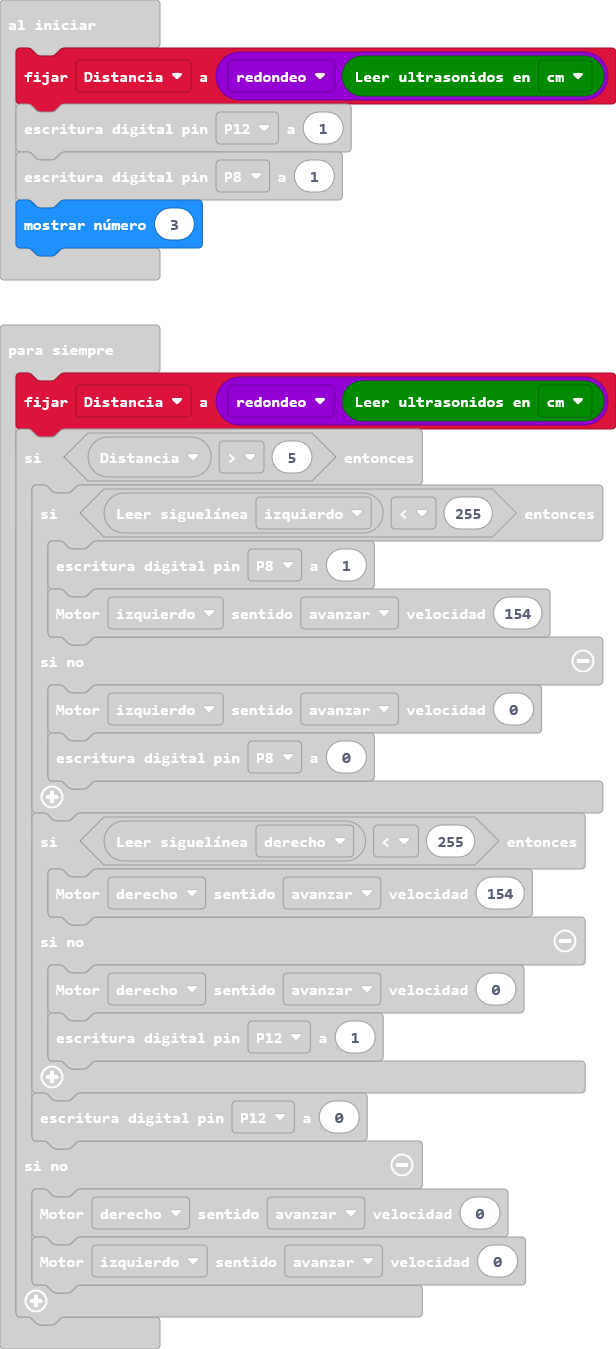
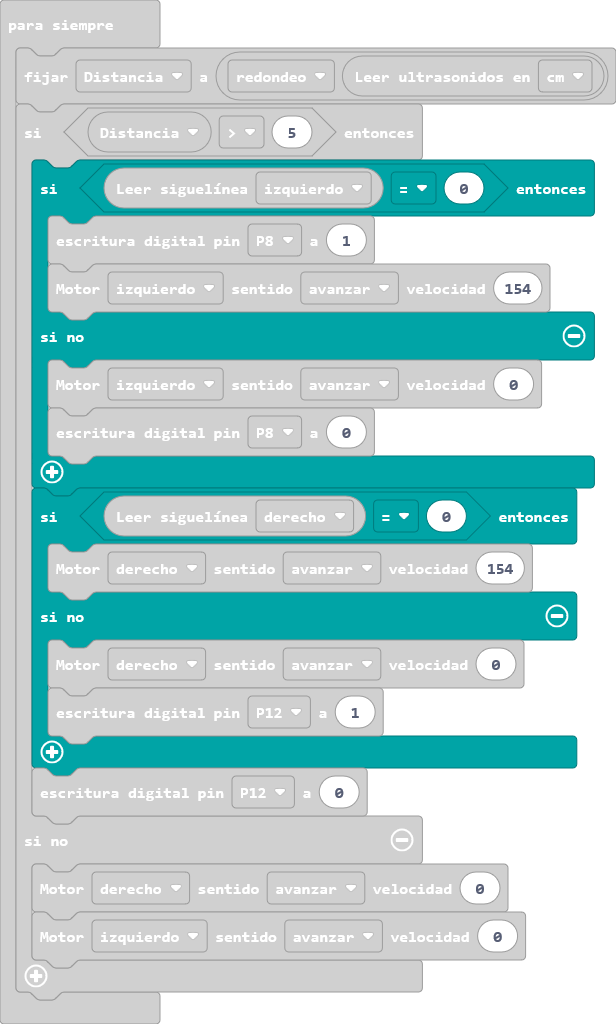
Actualizar pxt.json, main.blocks, main.ts

diff --git a/main.ts b/main.ts
@@ -5,14 +5,14 @@ basic.showNumber(3)
 basic.forever(function () {
     Distancia = Math.round(maqueen.Ultrasonic(PingUnit.Centimeters))
     if (Distancia > 5) {
-        if (maqueen.readPatrol(maqueen.Patrol.PatrolLeft) < 255) {
+        if (maqueen.readPatrol(maqueen.Patrol.PatrolLeft) == 0) {
             pins.digitalWritePin(DigitalPin.P8, 1)
             maqueen.motorRun(maqueen.Motors.M1, maqueen.Dir.CW, 154)
         } else {
             maqueen.motorRun(maqueen.Motors.M1, maqueen.Dir.CW, 0)
             pins.digitalWritePin(DigitalPin.P8, 0)
         }
-        if (maqueen.readPatrol(maqueen.Patrol.PatrolRight) < 255) {
+        if (maqueen.readPatrol(maqueen.Patrol.PatrolRight) == 0) {
             maqueen.motorRun(maqueen.Motors.M2, maqueen.Dir.CW, 154)
         } else {
             maqueen.motorRun(maqueen.Motors.M2, maqueen.Dir.CW, 0)
